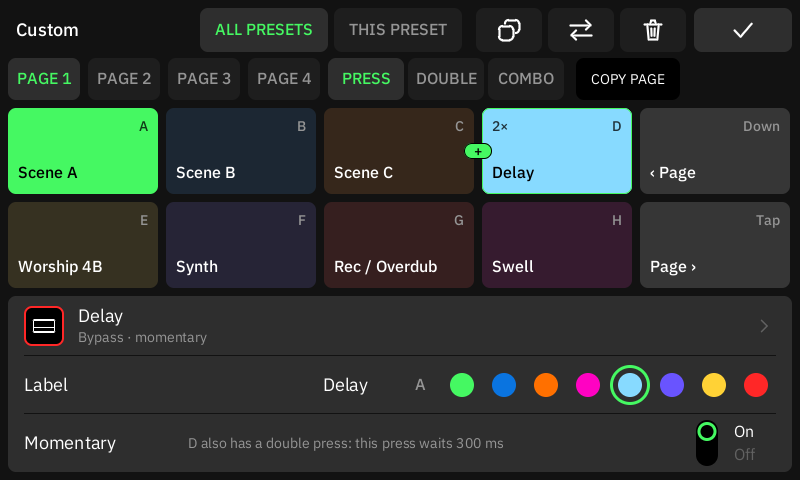
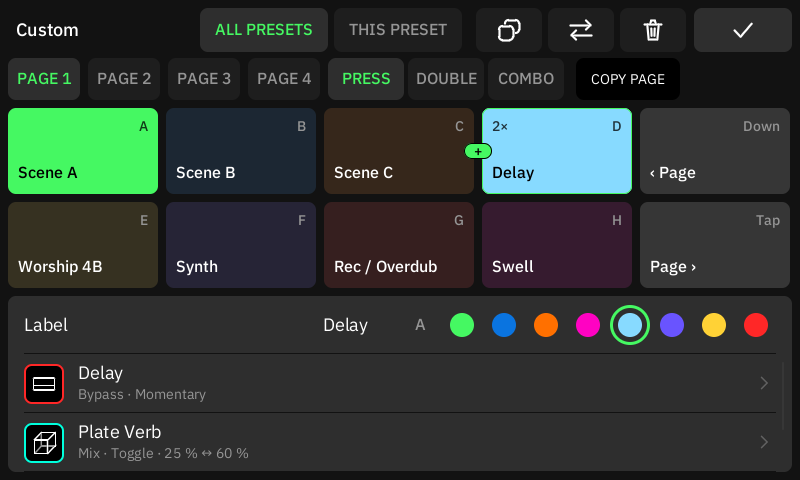
docs(custom): the action list and editor in the guide, changelog and screenshots

diff --git a/crates/tetrad-ui/src/screens/custom.rs b/crates/tetrad-ui/src/screens/custom.rs
@@ -536,10 +536,10 @@ fn detail(
     let p = l.palette;
     l.panel(DETAIL, p.panel, 8.0, None);
     let first = Rect::new(DETAIL.x, DETAIL.y, DETAIL.width, DETAIL_ROW);
-    if let Some(status) = status(custom, edit) {
-        let (text, color) = status;
+    if let Some((text, waiting)) = status(custom, edit) {
+        let color = if waiting { p.accent } else { p.warning };
         let text = fit(&text, MEDIUM, (first.width - 32) as f32);
-        l.text(first.inset(16, 0), text, MEDIUM, color(&p), Align::Left);
+        l.text(first.inset(16, 0), text, MEDIUM, color, Align::Left);
     } else {
         let bounds = Rect::new(first.x, first.y, 376, first.height);
         l.control(
@@ -746,8 +746,8 @@ fn action_page(
     l.text(footer, note, CAPTION, color, Align::Left);
 }
 
-/// What a waiting copy or move needs, else the last refusal, with its colour.
-fn status(custom: &CustomModeView, edit: CustomEdit) -> Option<(String, fn(&Palette) -> Rgb)> {
+/// What a waiting copy or move needs (`true`), else the last refusal (`false`).
+fn status(custom: &CustomModeView, edit: CustomEdit) -> Option<(String, bool)> {
     let waiting = match edit.pending {
         Some(CustomPending::Copy { page, slot }) => Some(format!(
             "Tap the switch that gets a copy of {} (page {})",
@@ -766,8 +766,8 @@ fn status(custom: &CustomModeView, edit: CustomEdit) -> Option<(String, fn(&Pale
         None => None,
     };
     match (waiting, &custom.notice) {
-        (Some(waiting), _) => Some((waiting, |p| p.accent)),
-        (None, Some(notice)) => Some((notice.clone(), |p| p.warning)),
+        (Some(waiting), _) => Some((waiting, true)),
+        (None, Some(notice)) => Some((notice.clone(), false)),
         (None, None) => None,
     }
 }

diff --git a/crates/tetrad-app/src/device/custom/mod.rs b/crates/tetrad-app/src/device/custom/mod.rs
@@ -1019,7 +1019,10 @@ fn run(state: &mut State, key: (u8, u8, Gesture, u8), act: &Act) -> Ran {
             }
             Ran {
                 press: act_on(vec![show(next)]),
-                release: held.then(|| act_on(vec![show(on)])).unwrap_or_default(),
+                release: match held {
+                    true => act_on(vec![show(on)]),
+                    false => Vec::new(),
+                },
                 invert: None,
             }
         }

diff --git a/crates/tetrad-ui/examples/render_owned.rs b/crates/tetrad-ui/examples/render_owned.rs
@@ -3237,7 +3237,7 @@ fn custom_fixture() -> Result<CustomModeView, UiError> {
     delay.modes = switch_modes.to_vec();
     first[3].actions.push(CustomActionView {
         action: SlotAction::Block {
-            position: GridPosition::new(1, 3)?,
+            position: GridPosition::new(0, 6)?,
             target: BlockTarget::Parameter(4),
         },
         label: "Plate Verb".into(),

diff --git a/docs/footswitch-modes.md b/docs/footswitch-modes.md
@@ -2,9 +2,10 @@
 
 The **Custom Footswitch Mode** extension adds a fourth footswitch mode next to Preset, Scene and
 Stomp. The mode has four pages. On each page, ten footswitches are yours: A, B, C, D and Down
-on the top row, and E, F, G, H and Tap on the bottom row. Each footswitch runs one action that
-you choose, such as a scene, a preset, a block, MIDI, a system action, a page change or a
-command of another extension.
+on the top row, and E, F, G, H and Tap on the bottom row. Each footswitch runs up to eight
+actions that you choose, such as a scene, a preset, a block, MIDI, a system action, a page
+change or a command of another extension. Each action has a mode, as on the
+[Mappings](mappings.md#modes) page.
 
 Tetrad runs the mode itself. The extension only adds it, so it runs no code, and a footswitch
 press never waits for an extension.
@@ -36,12 +37,15 @@ Open the editor with **EDIT** in Gig View, or with **EDIT** under "Footswitch mo
 extension's page.
 
 <p align="center">
-  <img src="images/custom-edit.png" width="600" alt="The editor of the Custom mode: four page tabs, PRESS, DOUBLE and COMBO, the ten switches of page 1 and the settings of switch D">
+  <img src="images/custom-edit.png" width="600" alt="The editor of the Custom mode: four page tabs, PRESS, DOUBLE and COMBO, the ten switches of page 1, and the label, colour and two actions of switch D">
 </p>
 
 1. Tap a page tab (**PAGE 1** to **PAGE 4**).
-2. Tap a switch. Its settings show below the switches.
-3. Tap the **Action** row and choose the action:
+2. Tap a switch. Its label, colour and actions show below the switches. Scroll the actions to
+   see more.
+3. Tap **Add action**, or an action to change it. The action editor opens: it has the
+   **Action**, **Mode** and **Values** rows of a mapping (see [mappings.md](mappings.md#modes)).
+4. Tap the **Action** row and choose the action:
 
    | Action | What a press does |
    | --- | --- |
@@ -52,24 +56,35 @@ extension's page.
    | Tuner, Gig View | Opens or closes it. |
    | Tempo → Tap tempo | A tap tempo. |
    | Mode | Goes to another footswitch mode. |
-   | Looper | A Looper button. It is held while the switch is held. |
+   | Looper | A Looper button: a tap, or (**Momentary**) held while the switch is held. |
    | Page | The next page, the previous page or page 1 to 4. The pages wrap. |
-   | BLOCKS → a block → Bypass | Turns the block on or off. With **Momentary** on, the block changes only while the switch is down. |
-   | BLOCKS → a block → a parameter | Sets the parameter to **Value** (5 % steps). |
+   | BLOCKS → a block → Bypass | Turns the block on or off: **Toggle**, **Momentary** (only while the switch is down) or **Set** (always on, or always off). |
+   | BLOCKS → a block → a parameter | **Set** a value, **Toggle** between A and B, **Momentary** (the value while the switch is down) or **Step** (move the value on each press). Values show in the parameter's own units. |
    | MIDI OUT → Send MIDI | Sends up to 12 messages (CC, CC Toggle or PC). Tap **Edit messages**. |
    | EXTENSIONS → Commands | Runs a command of a running extension. |
 
-4. **Label**: the text of the switch in Gig View. Leave it empty to show the name of the action.
-5. **Colour**: the colour of the switch LED and its Gig View tile. **A** (Auto) takes a colour
-   from the action, such as the scene colour or the block colour.
-6. The trash button clears the switch.
+5. **Mode**: how the press drives the action, as on the Mappings page. Tuner and Gig View also
+   have Toggle, Momentary and Set. The other actions run on each press.
+6. The trash button of the action editor removes the action. Back returns to the switches.
+7. **Label**: the text of the switch in Gig View. Leave it empty to show the name of the first
+   action.
+8. **Colour**: the colour of the switch LED and its Gig View tile. **A** (Auto) takes a colour
+   from the first action, such as the scene colour or the block colour.
+9. The trash button above the switches clears the switch.
+
+A press runs the actions in their order. A release ends the Momentary actions. The tile, the
+LED and Gig View show the first action.
+
+<p align="center">
+  <img src="images/custom-action.png" width="600" alt="The action editor of switch D: the Plate Verb Mix in Toggle mode between 25 % and 60 %">
+</p>
 
 ### Double press and combos
 
 A switch can do a second action when you press it two times, and two switches next to each
 other can do a third action when you press them together. **PRESS**, **DOUBLE** and **COMBO**
 (right of the page tabs) choose which action of the selected switch the editor shows. Set it
-as you set the press: Action, Label and the action's setting. The colour belongs to the switch.
+as you set the press: its actions and its label. The colour belongs to the switch.
 
 - **DOUBLE**: runs when you press the switch two times within the double press time (300 ms
   unless you change it). Its press does not run. The tile shows **2×**.
@@ -101,7 +116,7 @@ stay where they are. COPY PAGE copies the combos of the page too.
 ### Copy and move switches
 
 - **COPY** (the two squares): tap it, then tap another switch. That switch gets a copy of the
-  selected one: its action, label, colour and settings.
+  selected one: its actions, label and colour.
 - **MOVE** (the two arrows): tap it, then tap another switch. The two switches swap.
 - **COPY PAGE**: tap it, then tap a page tab. That page gets a copy of the page that shows.
 
@@ -131,7 +146,7 @@ model as when you chose it.
 Gig View shows the ten switches of the current page, the page number and **EDIT**. Tap a tile to
 press its switch. Tap the page number to go to the next page.
 
-The LED of a switch is at full brightness when its action is on: its scene is the active scene,
+The LED of a switch is at full brightness when its first action is on: its scene is the active scene,
 its block is on, the tuner or Gig View shows, or the switch is held. It is dimmed when the
 action is off, and off when the switch has no action. Bank Up is dimmed white.
 
@@ -156,7 +171,7 @@ SYSTEM actions:
 - **Custom** → **Press A** to **Press Tap**: presses that switch of the current page, as a
   Looper button works in Mappings. **On press** taps the switch (a press, then a release).
   **Momentary** holds it from the press to the release: a note-off, a CC that leaves its window
-  or the release of a MIDI Mapper key. Use Momentary for a switch with a momentary action.
+  or the release of a MIDI Mapper key. Use Momentary for a switch with Momentary actions.
 
 These actions do nothing while the Custom mode is off.
 
@@ -165,6 +180,9 @@ These actions do nothing while the Custom mode is off.
 - The ALL PRESETS switches: `/media/p4/tetrad/footswitch-modes/<repository>~<extension>.json`.
   When you remove the extension, the file stays, so a new install keeps your switches.
 - The layout of one preset: in the preset (a Tetrad field that stock CorOS keeps).
+- A layout from Tetrad 0.1.0-alpha.10 or earlier (one action per switch) reads as before: a
+  parameter's value becomes Set, a momentary bypass and a Looper button become Momentary. Tetrad
+  writes it in the new format, which older Tetrad builds do not read.
 - Whether the mode is on, and the double press and combo times:
   `/media/p4/tetrad/footswitch-mode.json`.
 

diff --git a/CHANGELOG.md b/CHANGELOG.md
@@ -29,6 +29,14 @@ All notable changes to Tetrad are in this file. The version numbers follow
 - Plugin licences fail closed: until the DSP reports the licences at boot, every plugin block
   deploys bypassed. Before, a deploy in that window had no licence gate.
 - A DSP block's `placeholder` cannot be a plugin model: Tetrad uses the stock Gain block instead.
+- Custom footswitch mode: a switch (its press, double press or combo) runs up to eight actions,
+  in order. Each action has a mode with its values, as a mapping has: Set, Toggle, Momentary or
+  Step for a parameter (values in the parameter's own units), Toggle, Momentary or Set for a
+  bypass, the Tuner and Gig View, On press or Momentary for a Looper button. The editor lists the
+  switch's actions under the switches; an action opens the Mappings Action, Mode and Values rows
+  ([docs/footswitch-modes.md](docs/footswitch-modes.md#choose-the-actions)). The Remote
+  Footswitch page and the phone app edit the actions the same way. Layouts from before read as
+  before and are written in a new format (2) that older Tetrad builds do not read.
 - Custom footswitch mode: a switch that selects a scene shows the scene's name from the loaded
   preset, with **Scene A** under it. A scene without a name shows **Scene A**, as before. A
   label that you type still comes first.
